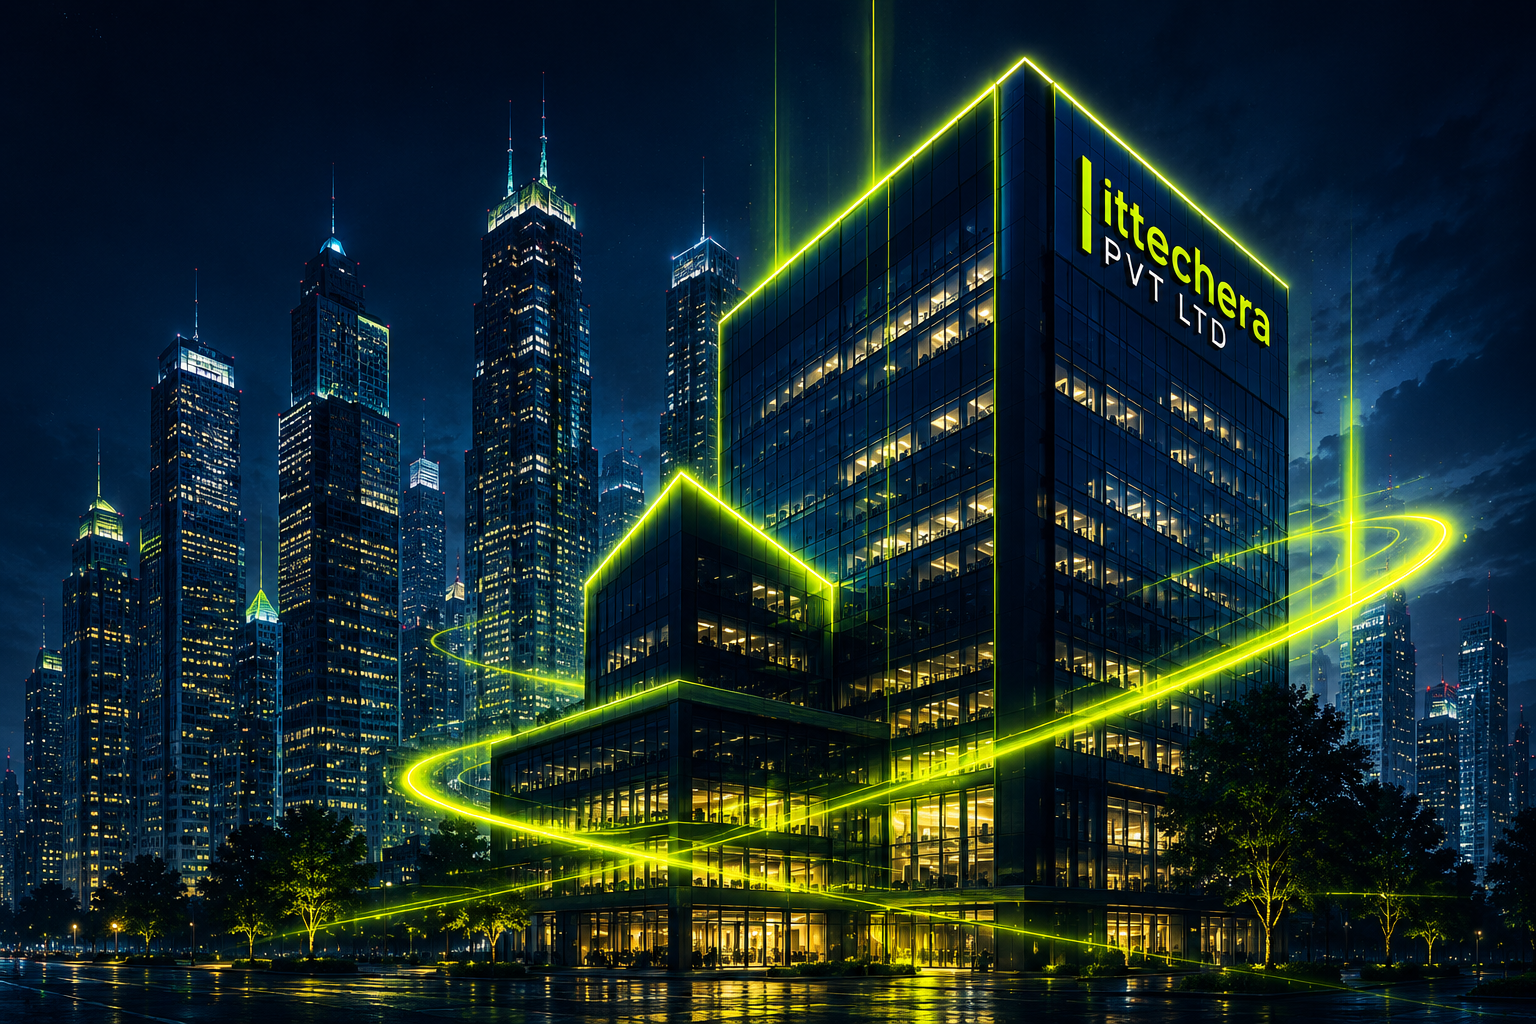
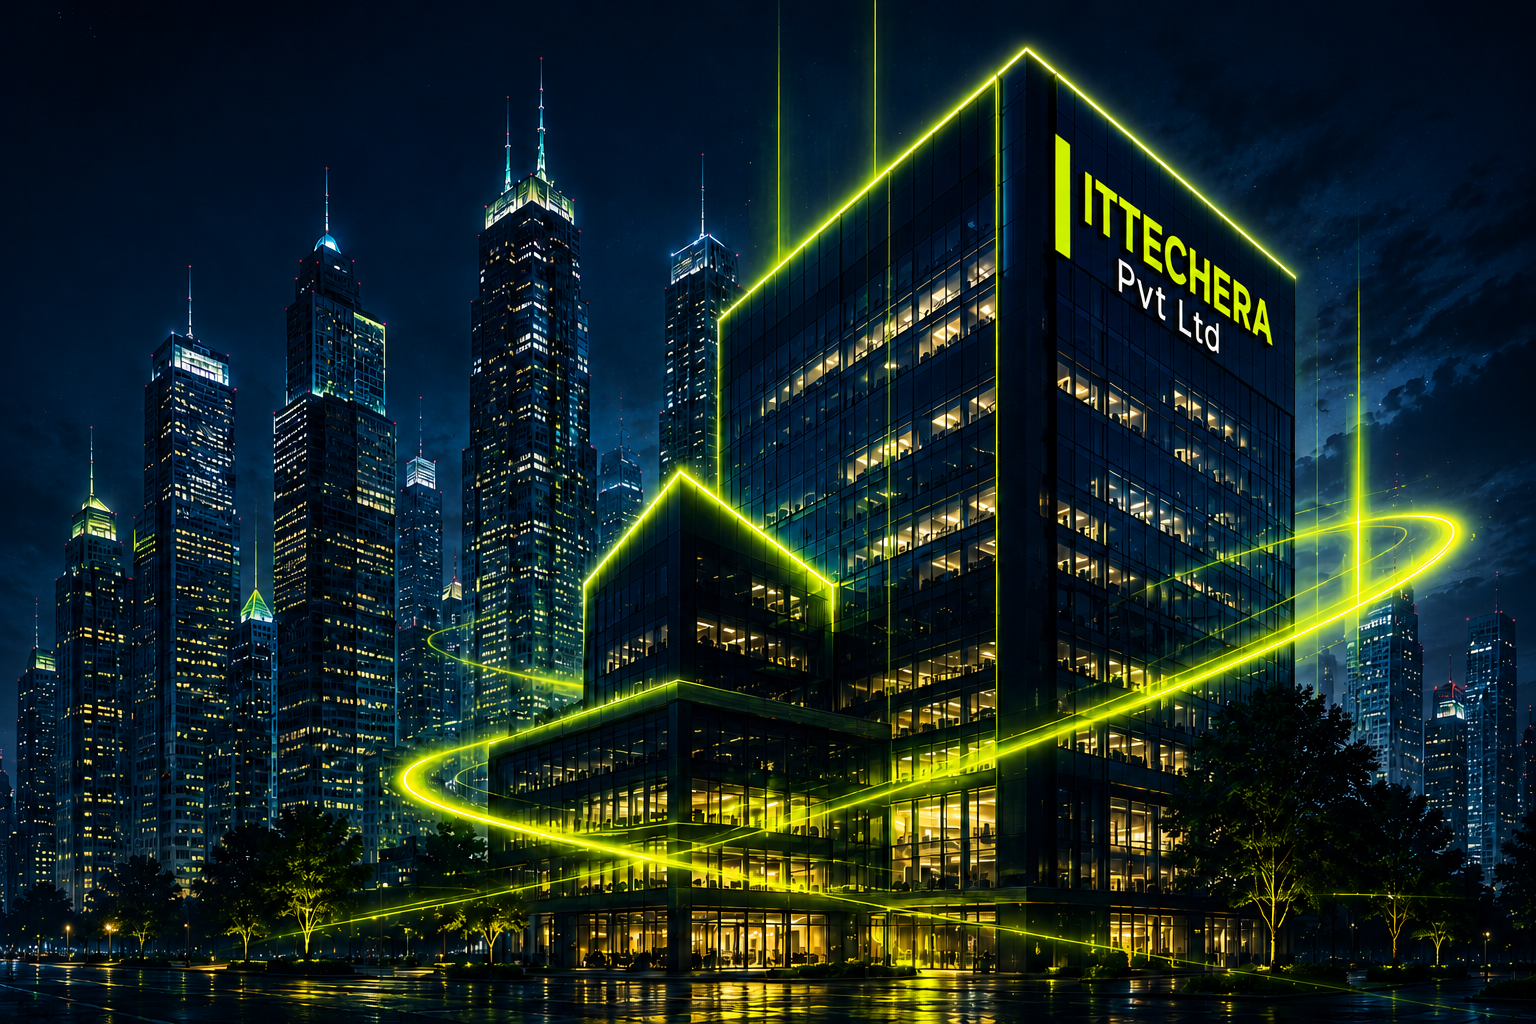
few enhancements

Changed region(s): [[0.0, 0.0, 1.0, 1.0]]

diff --git a/src/Components/Navbar.jsx b/src/Components/Navbar.jsx
@@ -12,7 +12,7 @@ export default function Navbar() {
     { name: "Home", type: "route", to: "/" },
     { name: "About", type: "route", to: "/about" },
     { name: "Services", type: "route", to: "/services" },
-    { name: "Products", type: "route", to: "/products" },
+    // { name: "Products", type: "route", to: "/products" },
     { name: "Contact", type: "route", to: "/contact" },
   ];
 